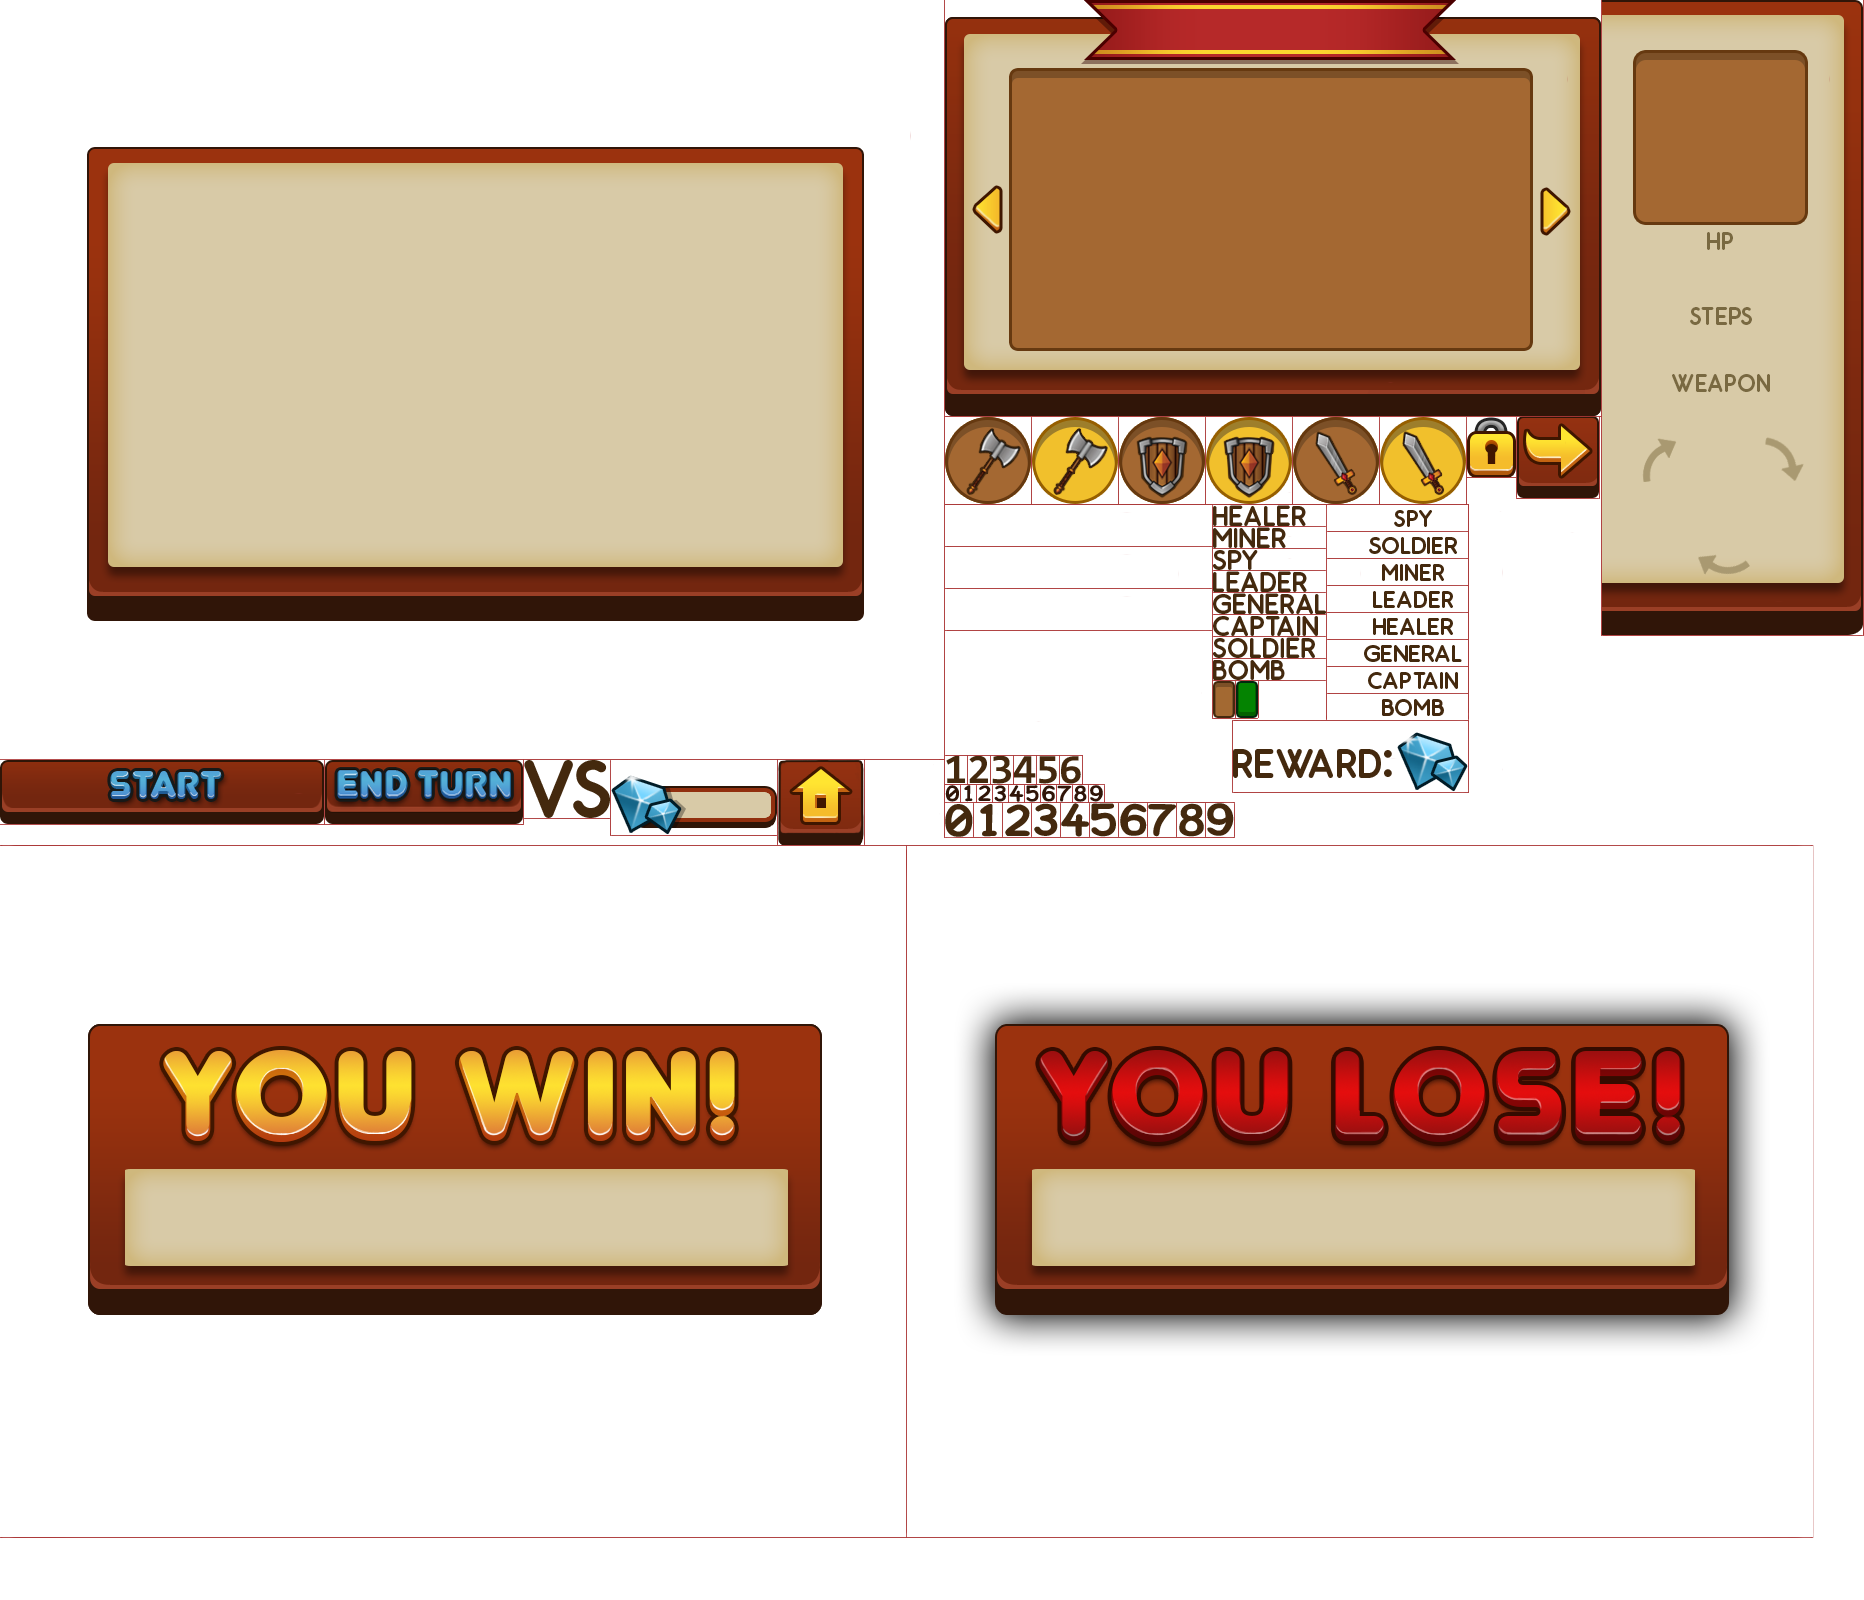
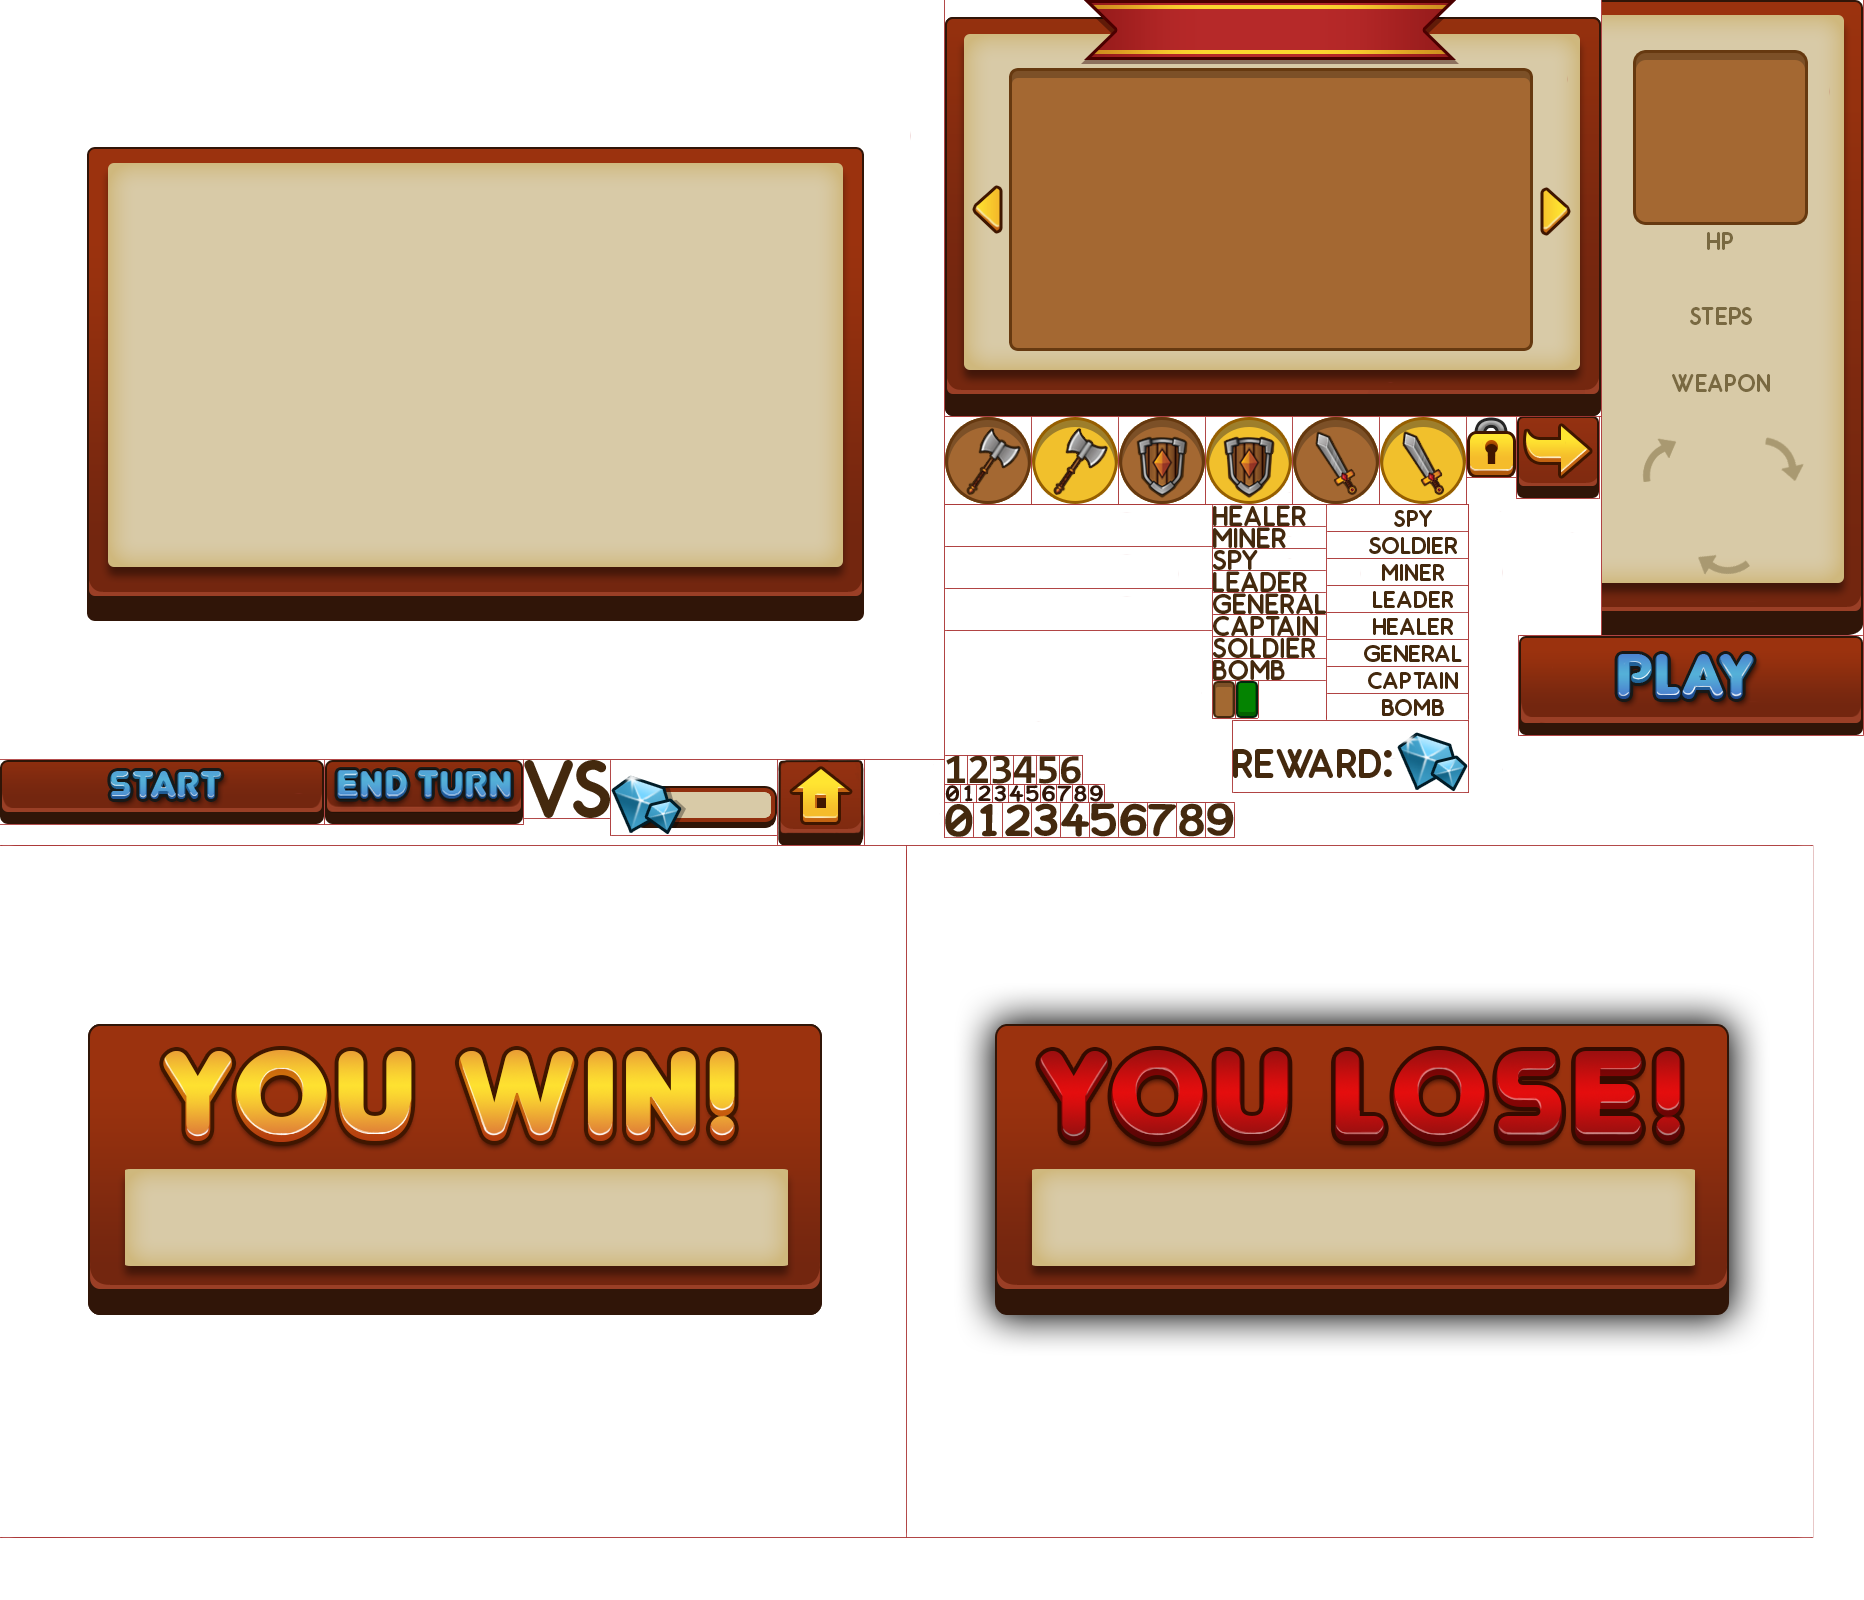
Start screen added.

Changed region(s): [[0.809, 0.375, 1.0, 0.4688]]

diff --git a/Proeve/Resources/ArtAssets.cs b/Proeve/Resources/ArtAssets.cs
@@ -128,6 +128,7 @@ namespace Proeve.Resources
         private static Sprite startButtonSprite;
         private static Sprite endTurnButtonSprite;
         private static Sprite homeButton;
+        private static Sprite startGameButton;
 
         // Figthing
         private static Sprite damageTextSprite;
@@ -205,6 +206,7 @@ namespace Proeve.Resources
         public static Sprite StartButton { get { return (Sprite)startButtonSprite.Clone(); } }
         public static Sprite EndTurnButton { get { return (Sprite)endTurnButtonSprite.Clone(); } }
         public static Sprite HomeButton { get { return (Sprite)homeButton.Clone(); } }
+        public static Sprite StartGameButton { get { return (Sprite)startGameButton.Clone(); } }
 
         // ArmyEditor
         public static Sprite ArmyShowCase { get { return (Sprite)armyShowCase.Clone(); } }
@@ -320,6 +322,7 @@ namespace Proeve.Resources
             startButtonSprite = new Sprite(UISheet, new Rectangle(0, 760, 324, 64));
             endTurnButtonSprite = new Sprite(UISheet, new Rectangle(325, 760, 198, 64));
             homeButton = new Sprite(UISheet, new Rectangle(778, 760, 86, 85));
+            startGameButton = new Sprite(UISheet, new Rectangle(1519, 636, 344, 99));
 
             // Army Editor
             armyShowCase = new Sprite(UISheet, new Rectangle(945, 0, 656, 416));

diff --git a/Proeve/States/MainMenuState.cs b/Proeve/States/MainMenuState.cs
@@ -8,12 +8,14 @@ using Microsoft.Xna.Framework.Graphics;
 
 using E2DFramework.Graphics;
 
+using Proeve.UI;
 using Proeve.Resources;
 
 namespace Proeve.States
 {
     class MainMenuState : State
     {
+        E2DTexture background;
 
         public MainMenuState()
         {
@@ -22,7 +24,10 @@ namespace Proeve.States
 
         public override void Initialize()
         {
-            StateManager.ChangeState(Settings.STATES.Game);
+            buttons.Add(new Button(ArtAssets.StartGameButton, new Vector2(386, 455)));
+            buttons[0].ClickEvent = StartGame;
+
+            background = ArtAssets.backgroundStartScreen;
         }
         
         public override void Update(GameTime gameTime)
@@ -30,9 +35,14 @@ namespace Proeve.States
             
         }
 
+        private void StartGame()
+        {
+            StateManager.ChangeState(Settings.STATES.Game);
+        }
+
         public override void Draw(SpriteBatch spriteBatch)
         {
-            
+            spriteBatch.DrawE2DTexture(background, Vector2.Zero);
         }
     }
 }

diff --git a/Proeve/States/GameState.cs b/Proeve/States/GameState.cs
@@ -42,7 +42,7 @@ namespace Proeve.States
         {
             UpdateArmies(army, gameTime);
             UpdateArmies(enemyArmy, gameTime);
-            shineForeground.Update(gameTime);
+            //shineForeground.Update(gameTime);
         }
 
         private void UpdateArmies(List<Character> tempArmy, GameTime gameTime)
@@ -81,7 +81,7 @@ namespace Proeve.States
 
         public override void DrawAnimation(Spine.SkeletonMeshRenderer skeletonRenderer)
         {
-            shineForeground.Draw(skeletonRenderer);
+            //shineForeground.Draw(skeletonRenderer);
         }
 
         public void SetArmy(List<Character> sendArmy)

diff --git a/Proeve/States/ResultState.cs b/Proeve/States/ResultState.cs
@@ -91,7 +91,9 @@ namespace Proeve.States
         private void Quit()
         {
             Globals.multiplayerConnection = null;
-            StateManager.ChangeState(Settings.STATES.ArmyEditor);
+
+            StateManager.RemoveState();
+            StateManager.ChangeState(Settings.STATES.MainMenu);
         }
 
         public override void Draw(SpriteBatch spriteBatch)

diff --git a/Proeve/States/ArmyEditorState.cs b/Proeve/States/ArmyEditorState.cs
@@ -133,7 +133,8 @@ namespace Proeve.States
 
         private void Quit()
         {
-            
+            StateManager.RemoveState();
+            StateManager.ChangeState(Settings.STATES.MainMenu);
         }
 
         public override void Update(GameTime gameTime)

diff --git a/Proeve/States/StateManager.cs b/Proeve/States/StateManager.cs
@@ -42,6 +42,8 @@ namespace Proeve.States
         {
             RemoveState();
             AddState(s);
+
+            Console.WriteLine("stateList length: {0}", stateList.Count);
         }
 
         public static State GetState(int i = 0)
